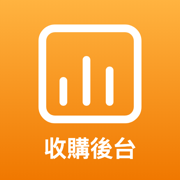
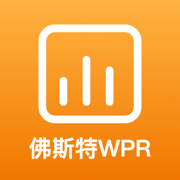
Add files via upload

Changed region(s): [[0.1389, 0.75, 0.8333, 0.8889]]

diff --git a/store.js b/store.js
@@ -345,10 +345,11 @@ function stepId() {
       <dl class="kv notice-kv">${IN_NOTICE.map(([h, b]) => `<dt>${esc(h)}</dt><dd>${esc(b)}</dd>`).join('')}</dl>
       <label class="check"><input type="checkbox" id="noticeOk" ${dr.noticeAt ? 'checked' : ''}> 出售人已閱讀並了解上述告知</label>
     </div>
-    <div class="card"><h3>證件照片（正面，最多 2 張）</h3>
+    <div class="card"><h3>證件照片（正面、反面）</h3>
       <p class="small muted" style="margin:0 0 8px">會自動加上「僅限收購使用」與日期浮水印</p>
-      <div class="ph-grid">${dr.idPhotos.map((p, j) => `<div class="ph"><img src="${p}" alt="證件"><button class="ph-del" data-delid="${j}" aria-label="刪除">✕</button></div>`).join('')}
-        ${dr.idPhotos.length < 2 ? `<label class="ph-add ${dr.noticeAt ? '' : 'disabled'}">📷 拍證件<input type="file" accept="image/*" capture="environment" hidden data-id-add ${dr.noticeAt ? '' : 'disabled'}></label>` : ''}</div>
+      <div class="id-slots">${['正面', '反面'].map((l, j) => `<div class="id-slot"><b>${l}</b>
+        ${dr.idPhotos[j] ? `<div class="ph"><img src="${dr.idPhotos[j]}" alt="證件${l}"><button class="ph-del" data-delid="${j}" aria-label="刪除">✕</button></div>`
+          : `<label class="ph-add ${dr.noticeAt ? '' : 'disabled'}">📷 拍${l}<input type="file" accept="image/*" capture="environment" hidden data-id-slot="${j}" ${dr.noticeAt ? '' : 'disabled'}></label>`}</div>`).join('')}</div>
       <label class="check" style="margin-top:12px"><input type="checkbox" id="verifiedOk" ${dr.verified ? 'checked' : ''}> 我已當面核對出售人證件與本人相符 *</label>
     </div>`;
 }
@@ -448,9 +449,10 @@ function bindForm() {
   if ($('#addItem')) $('#addItem').onclick = () => { dr.items.push(newItem()); drawForm(); setTimeout(() => $$('[data-i]').pop()?.scrollIntoView({ behavior: 'smooth' }), 50); };
   if ($('#noticeOk')) $('#noticeOk').onchange = e => { dr.noticeAt = e.target.checked ? new Date().toISOString() : ''; if (!e.target.checked) dr.idPhotos = []; drawForm(); };
   if ($('#verifiedOk')) $('#verifiedOk').onchange = e => { dr.verified = e.target.checked; };
-  $$('[data-delid]', body).forEach(b => b.onclick = () => { dr.idPhotos.splice(+b.dataset.delid, 1); drawForm(); });
-  const idIn = $('[data-id-add]', body);
-  if (idIn) idIn.onchange = async () => { try { dr.idPhotos.push(await watermarkImage(idIn.files[0], 1400)); } catch (e) { toast(e.message); } drawForm(); };
+  $$('[data-delid]', body).forEach(b => b.onclick = () => { dr.idPhotos[+b.dataset.delid] = ''; drawForm(); });
+  $$('[data-id-slot]', body).forEach(inp => inp.onchange = async () => { // 正面＝第 1 張、反面＝第 2 張
+    try { dr.idPhotos[+inp.dataset.idSlot] = await watermarkImage(inp.files[0], 1400); } catch (e) { toast(e.message); } drawForm();
+  });
   if ($('#agreeOk')) $('#agreeOk').onchange = e => { dr.agreed = e.target.checked; };
   $$('[data-sig]', body).forEach(c => sigPad(c, dr[c.dataset.sig], url => { dr[c.dataset.sig] = url; }));
   $$('[data-clear]', body).forEach(b => b.onclick = () => { dr[b.dataset.clear] = ''; drawForm(); });
@@ -493,9 +495,10 @@ async function submitIntake(err) {
   const btn = $('#inNext'); btn.disabled = true; btn.textContent = '上傳中，請勿關閉…';
   try {
     const items = dr.items.map(({ _m, _est, _estSel, _open, ...it }) => ({ ...it, deductions: (it.deductions || []).map(({ _other, _auto, ...d }) => d) }));
-    const r = await api('intakeCreate', { ...dr, items, account: dr.account.replace(/[\s-]/g, '') });
+    const ids = [dr.idPhotos[0], dr.idPhotos[1]].filter(Boolean);
+    const r = await api('intakeCreate', { ...dr, items, idPhotos: ids, account: dr.account.replace(/[\s-]/g, '') });
     drDone = r.intake;
-    drDone._local = { items: dr.items.map(it => it.photos), ids: dr.idPhotos, sellerSign: dr.sellerSign, staffSign: dr.staffSign };
+    drDone._local = { items: dr.items.map(it => it.photos), ids, sellerSign: dr.sellerSign, staffSign: dr.staffSign };
     intakes.unshift(r.intake);
     stockCache = null;
     drawForm();

diff --git a/admin.html b/admin.html
@@ -13,7 +13,7 @@
   document.write('<link rel="manifest" href="' + (shop ? 'shop' : 'admin') + '.webmanifest">'
     + '<link rel="apple-touch-icon" href="icons/' + (shop ? 'icon' : 'admin') + '-180.png">'
     + '<link rel="icon" href="icons/' + (shop ? 'icon' : 'admin') + '-192.png">'
-    + '<meta name="apple-mobile-web-app-title" content="' + (shop ? '門市收購' : '收購後台') + '">');
+    + '<meta name="apple-mobile-web-app-title" content="' + (shop ? '門市收購' : '佛斯特WPR') + '">');
 })();
 </script>
 <meta name="theme-color" content="#f5f5f7">
@@ -193,6 +193,10 @@
   .rp-more summary { cursor: pointer; font-size: 13px; color: var(--muted); list-style: none; text-align: center; padding: 4px; }
   .rp-more summary::-webkit-details-marker { display: none; } .rp-more summary::after { content: ' ▾'; } .rp-more[open] summary::after { content: ' ▴'; }
   .rp-more-btns { display: flex; gap: 8px; flex-wrap: wrap; justify-content: center; margin-top: 8px; }
+  .id-slots { display: grid; grid-template-columns: 1fr 1fr; gap: 12px; }
+  .id-slot { display: grid; gap: 6px; } .id-slot > b { font-size: 14px; }
+  .id-slot .ph, .id-slot .ph-add { width: 100%; aspect-ratio: 86/54; }
+  .id-slot .ph img { height: 100%; aspect-ratio: auto; }
   .rp-acts { display: flex; gap: 8px; flex-wrap: wrap; }
   .sig-mid { aspect-ratio: auto; height: clamp(260px, 42vh, 520px); border-width: 3px; margin-top: 8px; border-radius: 16px; }
   .pill.ok { background: #e8f7ee; color: #1f7a45; }
@@ -309,10 +313,10 @@
 <script>window.AUTH_NS = 'admin_';</script>
 <script src="device-ocr.js?v=20261122b" defer></script>
 <script src="config.js?v=20261122a"></script>
-<script src="shared.js?v=20261122g"></script>
-<script src="store.js?v=20261122u"></script>
+<script src="shared.js?v=20261122i"></script>
+<script src="store.js?v=20261122v"></script>
 <script src="repair-prices.js?v=20261122a"></script>
-<script src="repair.js?v=20261122m"></script>
+<script src="repair.js?v=20261122n"></script>
 <script>
 const app = $('#app');
 let orders = [];
@@ -474,7 +478,7 @@ function mountPassword(box, forced) {
     ${forced ? '<p class="muted small" style="margin:4px 0 16px">老闆給的是暫時密碼，改成只有您知道的密碼後才能開始使用。</p>' : ''}
     <form id="pwForm">
       <label class="field"><span>目前的密碼</span><input class="input" name="old" type="password" autocomplete="current-password" required></label>
-      <label class="field"><span>新密碼（至少 8 個字）</span><input class="input" name="np" type="password" autocomplete="new-password" required></label>
+      <label class="field"><span>新密碼</span><input class="input" name="np" type="password" autocomplete="new-password" required></label>
       <label class="field"><span>再輸入一次新密碼</span><input class="input" name="np2" type="password" autocomplete="new-password" required></label>
       <div class="err" id="pwErr"></div>
       <button class="btn btn-dark ${forced ? 'btn-block' : ''}" id="pwBtn">更新密碼</button>
@@ -484,7 +488,7 @@ function mountPassword(box, forced) {
   f.onsubmit = async e => {
     e.preventDefault();
     const err = m => { $('#pwErr', box).textContent = m; };
-    if (f.elements.np.value.length < 8) return err('新密碼至少 8 個字');
+    if (!f.elements.np.value) return err('請輸入新密碼');
     if (f.elements.np.value !== f.elements.np2.value) return err('兩次輸入的新密碼不一樣');
     const b = $('#pwBtn', box); b.disabled = true; err('');
     try {

diff --git a/shared.js b/shared.js
@@ -639,7 +639,7 @@ async function mockApiInner(action, d) {
       const u = mockUsers.find(x => x.username === mockMe);
       if (!u) throw new Error('老闆帳號使用 LINE／Google 登入，不需要密碼');
       if (u.pw !== d.oldPassword) throw new Error('目前的密碼不正確');
-      if (String(d.newPassword || '').length < 8) throw new Error('新密碼至少 8 個字');
+      if (!String(d.newPassword || '')) throw new Error('請輸入新密碼');
       if (d.newPassword === d.oldPassword) throw new Error('新密碼不能和舊密碼相同');
       u.pw = d.newPassword; u.mustChange = false;
       return { ok: true, session: 'mock', user: { name: u.name, via: 'Staff' } };
@@ -652,7 +652,7 @@ async function mockApiInner(action, d) {
       let u = mockUsers.find(x => x.username === username);
       if (v.isNew && u) throw new Error('這個帳號已經存在');
       if (!u) { if (!v.password) throw new Error('請設定初始密碼'); u = { username, createdAt: now(), lastLogin: '' }; mockUsers.push(u); }
-      if (v.password) { if (String(v.password).length < 8) throw new Error('密碼至少 8 個字'); u.pw = v.password; u.mustChange = true; }
+      if (v.password) { if (!String(v.password)) throw new Error('請輸入密碼'); u.pw = v.password; u.mustChange = true; }
       Object.assign(u, { name: v.name || username, role: v.role || '自訂', perms: (v.perms || []).filter(p => MOCK_PERMS[p]), enabled: v.enabled !== false });
       const { pw, ...pub } = u; return { ok: true, user: pub };
     }
@@ -736,7 +736,7 @@ async function mockApiInner(action, d) {
       if (d.items) { o.items = d.items; o.quote = d.items.reduce((t, x) => t + (Number(x.amount) || 0), 0); }
       if (d.parts) { o.parts = d.parts; o.partsCost = d.parts.reduce((t, p) => t + (Number(p.cost) || 0), 0); }
       if (d.note != null) o.note = d.note;
-      if (d.status && d.status !== o.status) { if (d.status === '待取件') { o.doneAt = now(); if (o.email) o.mailLog = `${now()} 已寄送（完修通知）→ ${o.email}（模擬）\n` + o.mailLog; } o.status = d.status; o.history.unshift(`${now()}｜${d.status}｜${s.name}`); }
+      if (d.status && d.status !== o.status) { if (d.status === '待取件' || d.status === '無法維修') { o.doneAt = now(); if (o.email) o.mailLog = `${now()} 已寄送（${d.status === '待取件' ? '完修通知' : '無法維修通知'}）→ ${o.email}（模擬）\n` + o.mailLog; } o.status = d.status; o.history.unshift(`${now()}｜${d.status}｜${s.name}`); }
       return { ok: true, repair: JSON.parse(JSON.stringify(o)) };
     }
     case 'repairPickup': {

diff --git a/repair.js b/repair.js
@@ -347,7 +347,7 @@ function rpProgressHTML(o, can) {
   const next = { '待維修': ['維修中', '🔧 開始維修'], '維修中': ['待取件', `✅ 維修完成，通知取件${o.email ? '（寄信）' : ''}`] }[o.status];
   const back = { '維修中': '待維修', '待取件': '維修中', '無法維修': '維修中' }[o.status];
   const others = [
-    o.status !== '無法維修' && o.status !== '待取件' && ['無法維修', '改為「無法維修」'],
+    o.status !== '無法維修' && o.status !== '待取件' && ['無法維修', `改為「無法維修」${o.email ? '（寄信）' : ''}`],
     back && [back, `退回「${back}」`],
     ['已取消', '取消維修單'],
   ].filter(Boolean);
@@ -434,14 +434,14 @@ function repairDrawer(o) {
       const msg = {
         '維修中': o.status === '待維修' ? `開始維修 ${o.id}？\n\n狀態會改為「維修中」。` : `退回「維修中」？`,
         '待取件': `確定已維修完成？\n\n狀態會改為「待取件」${o.email ? '，並寄信通知客人來取件' : ''}。`,
-        '無法維修': `改為「無法維修」？\n\n之後仍可在下方辦理取件（退回裝置、收檢測費）。`,
+        '無法維修': `改為「無法維修」？\n\n${o.email ? '會寄信通知客人來取回裝置；' : ''}之後在下方辦理取件（退回裝置、收檢測費）。`,
         '待維修': `退回「待維修」？`,
         '已取消': `取消這張維修單？\n\n取消後就不能再更新進度。`,
       }[st] || `改為「${st}」？`;
       const okText = { '待取件': '確定完修', '已取消': '取消維修單', '無法維修': '改為無法維修' }[st] || '確定';
       if (!(await ask(msg, okText, '返回'))) return;
       b.disabled = true;
-      try { const n = await save({ status: st }); if (n) { toast(st === '待取件' && n.email ? '已更新，並寄信通知客人取件' : '已更新為「' + st + '」'); repairDrawer(n); refreshRepairList(); } }
+      try { const n = await save({ status: st }); if (n) { toast((st === '待取件' || st === '無法維修') && n.email ? '已更新，並寄信通知客人來取件' : '已更新為「' + st + '」'); repairDrawer(n); refreshRepairList(); } }
       catch (x) { if (x.auth) return start(); toast(x.message); b.disabled = false; }
     });
     let pkSign = '';

diff --git a/index.html b/index.html
@@ -128,7 +128,7 @@
 </footer>
 
 <script src="config.js?v=20261122a"></script>
-<script src="shared.js?v=20261122g"></script>
+<script src="shared.js?v=20261122i"></script>
 <script>
 const app = $('#app');
 
